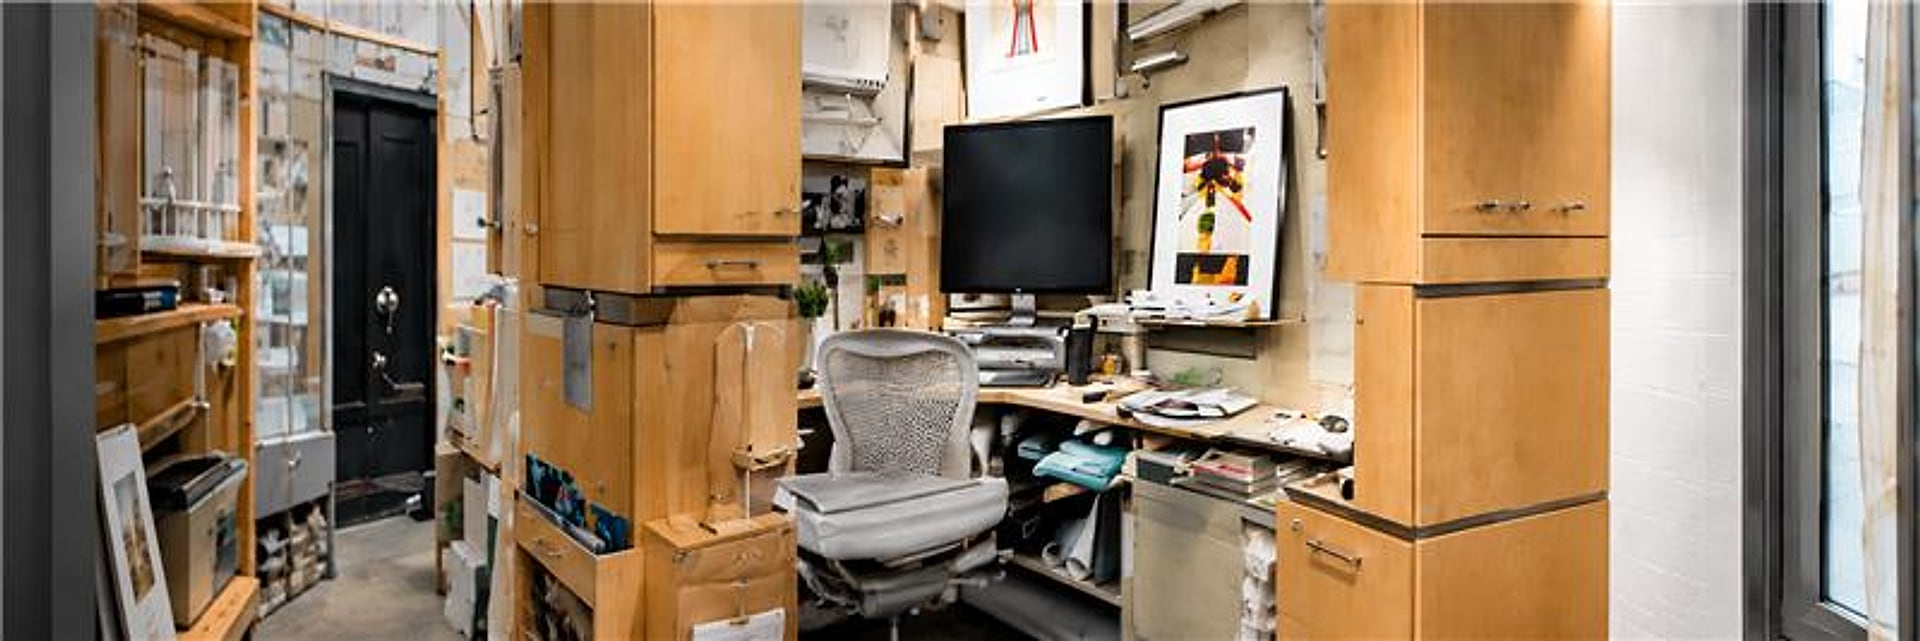
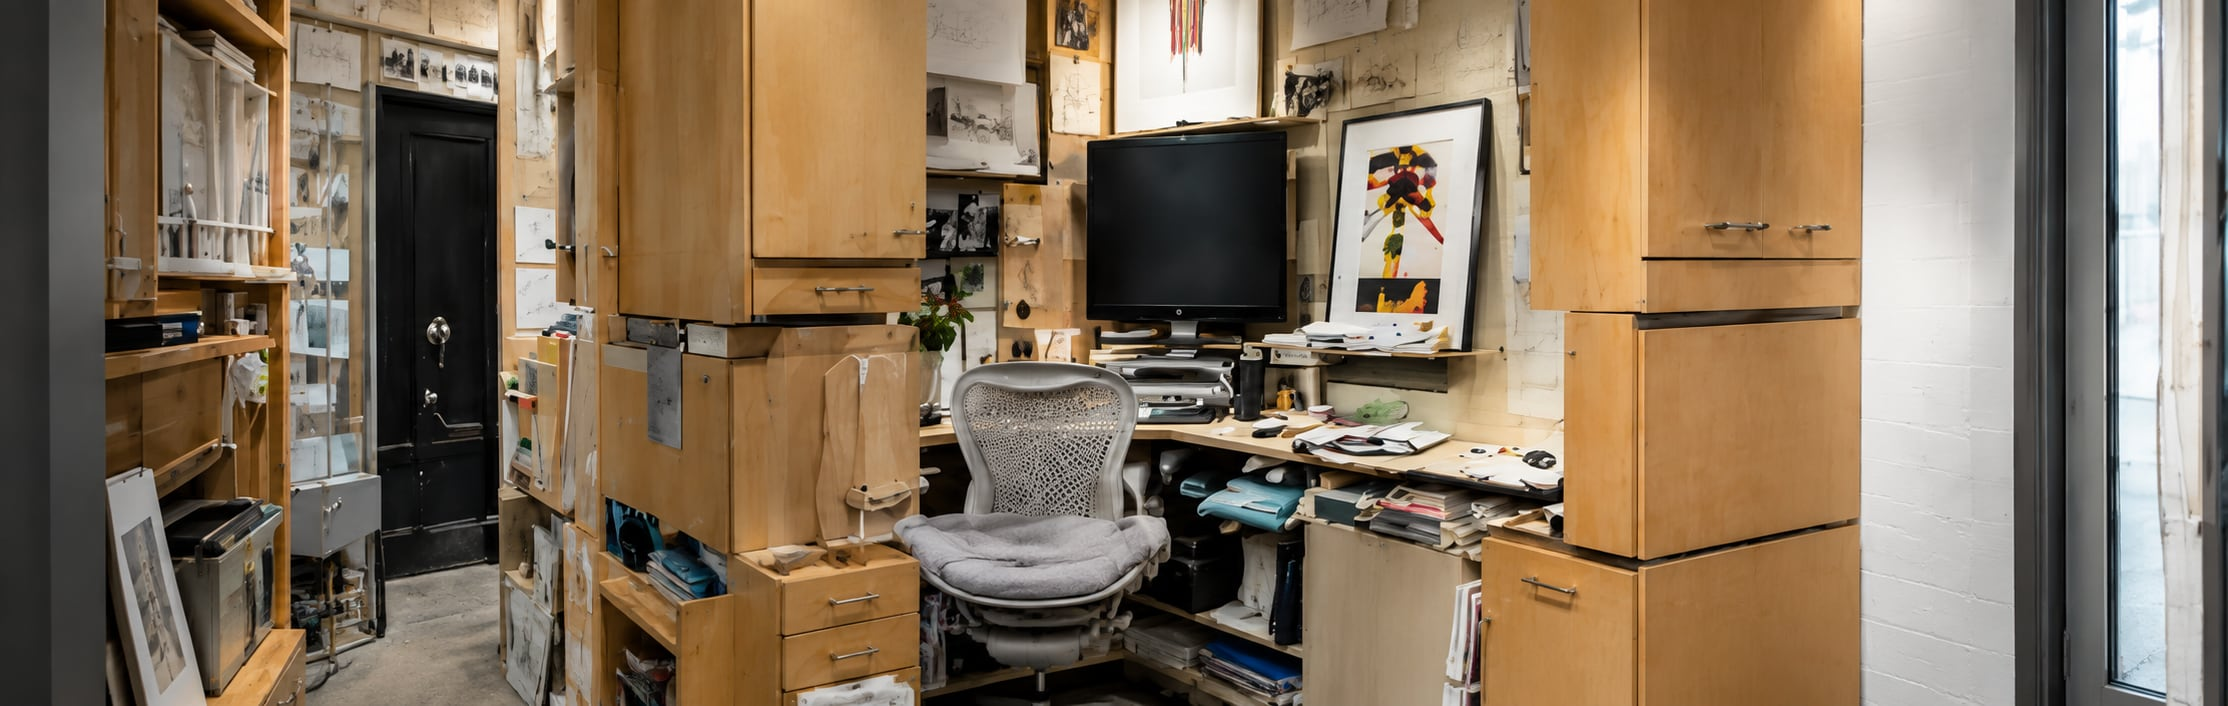
first commit

diff --git a/assets/img/CREDITS.md b/assets/img/CREDITS.md
@@ -3,7 +3,7 @@
 | File | Source | Note |
 |---|---|---|
 | hero.jpg | Supplied by the user (2026-10-30), 1981x794 lobby image (skylight, branded glass door) | Earlier heroes are in git history. |
-| cta.jpg | Supplied by the user (2026-10-30), 800x267 office image, upscaled to 1920px (lanczos3 + light sharpen) | Background of the "Let’s get started." band. A larger original would look sharper. |
+| cta.jpg | Supplied by the user (2026-10-30), 2228x706 office image | Background of the "Let’s get started." band. |
 | team.jpg | Supplied by the user (2026-10-30), 2169x725 team photo | Fills the team band behind the heading, anchored to the bottom. |
 | dentists.jpg | downtowndentist.ca home hero (home-page-hero-downtown-dentist-calgary.jpg), right half crop | Dr. Claire Whitney & Dr. Kristin Yont. |
 | services.jpg | Clinic owner photo on Google Maps (7314x4876), resized to 1800px | Treatment room with skylight ceiling. |
